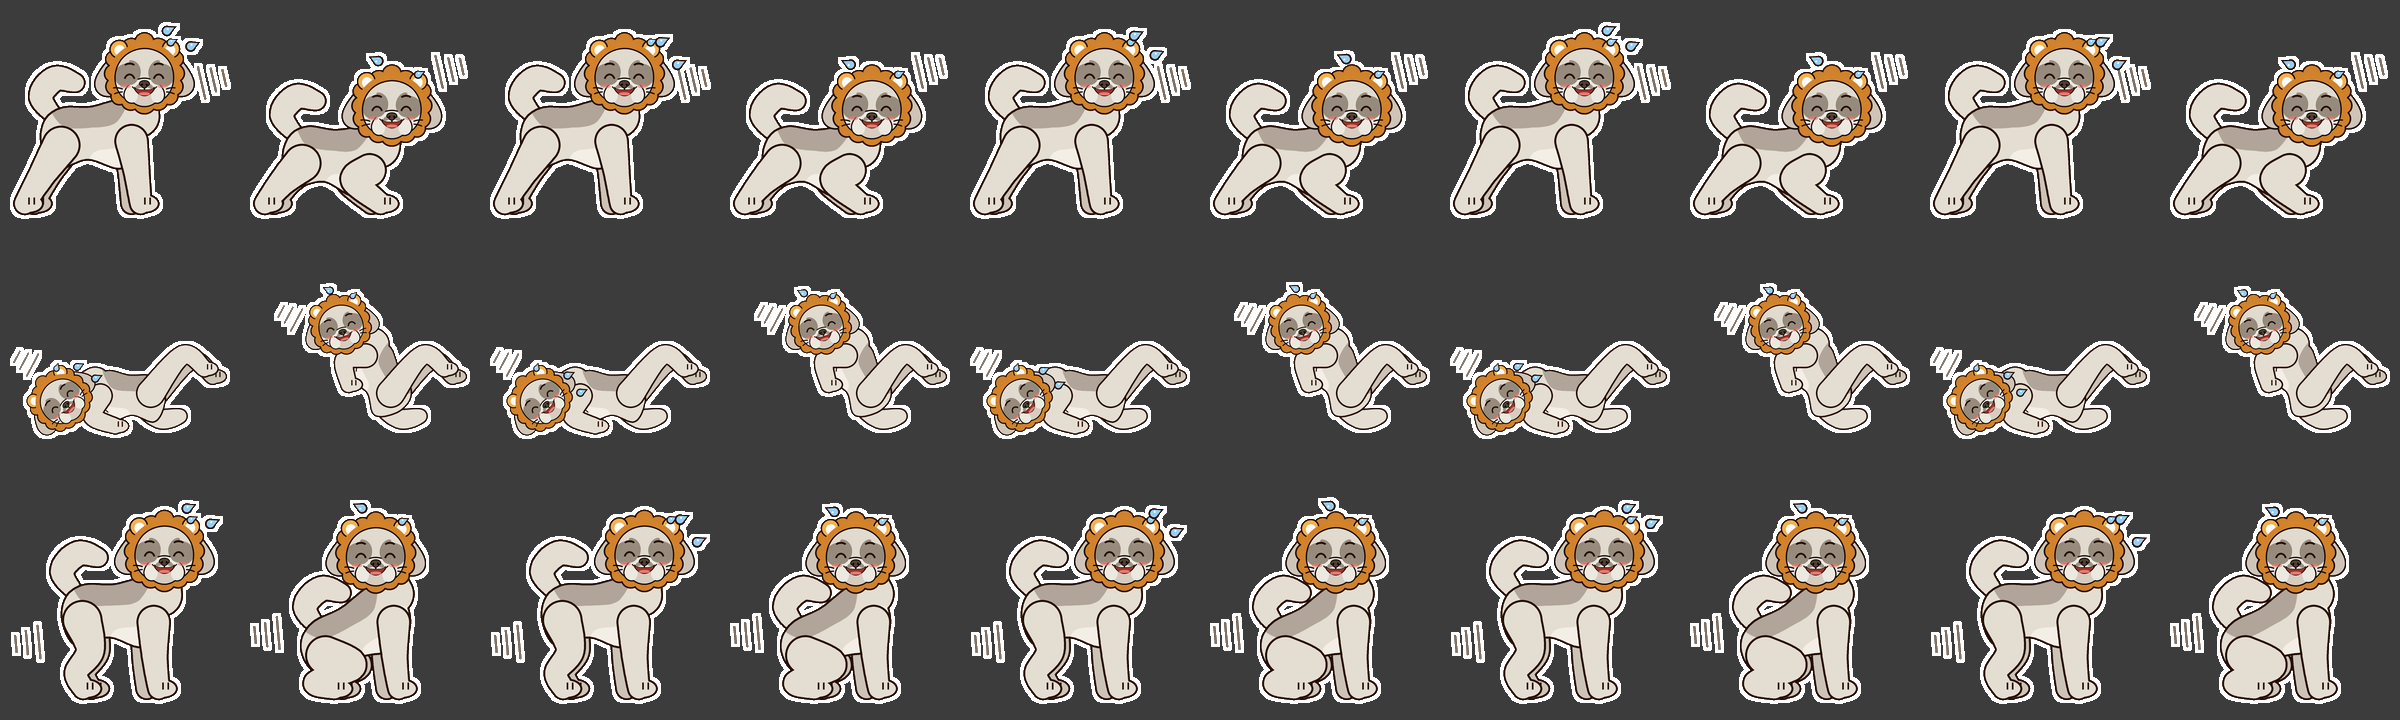
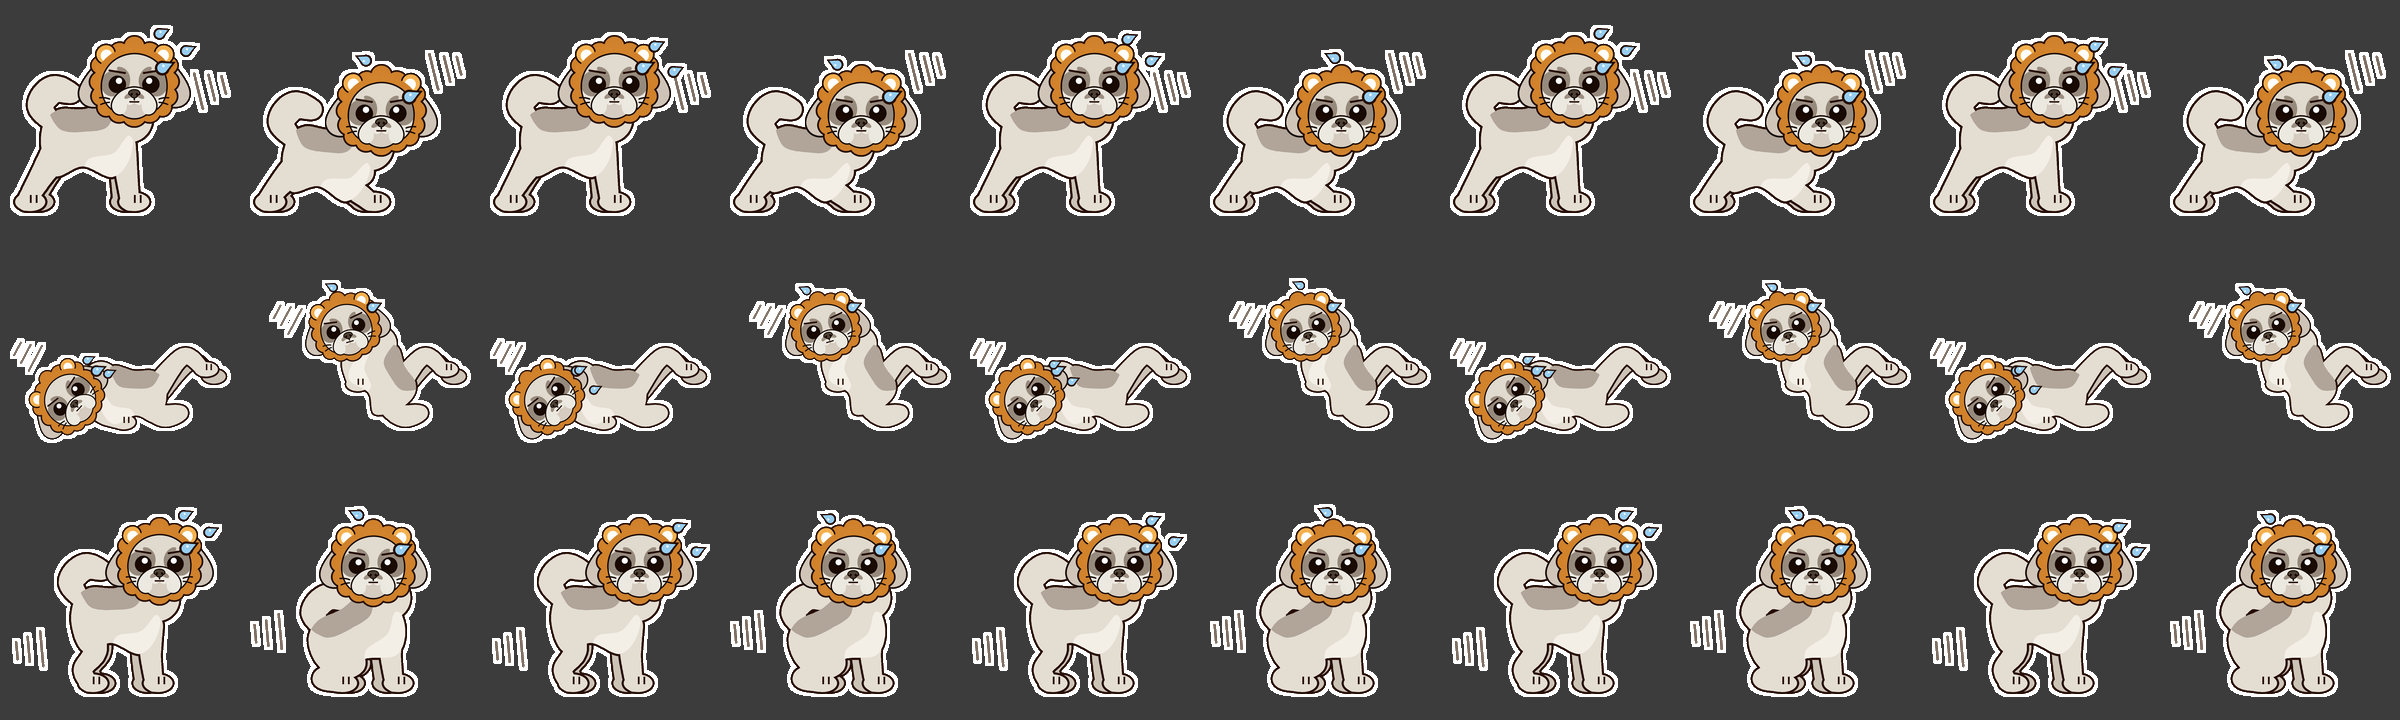
Refine 'kintore': straight face, shorter limbs, single unified outline
Claude-Session: https://claude.ai/code/session_01KX3WDfyPkAofSs6dqvGAmw

diff --git a/.claude/skills/stamp-create/SKILL.md b/.claude/skills/stamp-create/SKILL.md
@@ -114,10 +114,13 @@ print(ms.verify("assets/gif/名前.gif"))                     # 検証
   - 脚は**4本**。付け根が太く先が細い形（関節の点を通る線に沿って、太さを変えた丸を並べて作る）、先端に横長の丸い足と指の切れ目2本。**奥の脚は少し暗い色**（RGB 204,195,183）にして立体感を出す
   - しっぽは丸を重ねたふさふさの形で、背中側へくるんと巻く
   - 輪郭は形から一定距離の範囲を距離計算（`distance_transform_edt`）で求めて塗る（`MaxFilter` は大きな画像だと非常に遅い）
-  - 描く順番：奥の脚 → しっぽ → 胴体（＋模様・首）→ 手前の脚 → 頭
+  - **体は1つの形にまとめる**（ユーザーの好み。脚を1本ずつ別の輪郭で描くと、関節やつなぎ目に線が出てチープに見える）：手前の脚・胴体・首・しっぽを**1つの形（マスク）に合体**させてから、輪郭を1回だけ付けて塗る。奥の脚もまとめて1つの形にし、少し暗い色で後ろに描く。背中の模様と胸の明るい毛は胴体の部分だけに塗り、手前の脚には足先の指の切れ目だけ描く
+  - 描く順番：奥の脚（まとめて）→ 手前の体全部（胴体＋首＋しっぽ＋手前の脚を合体）→ 模様 → 指の切れ目 → 頭
+  - **手足と胴体は短め**：頭の大きさと胴体の太さはそのままに、横方向（胴体・手足の前後の長さ）と脚の高さを約8割に縮めると、ずんぐり可愛い
+  - **真顔**（「真顔で」と言われたら）：丸い目はそのまま、笑った口を消して一文字の口、眉は内側が少し下がるキリッとした太線。汗のしずくは残してよい
   - **可愛いバランス**（「気持ち悪い」と言われたら）：長く細い脚はやめ、丸くぽってりした胴体（太さ175）・短めで少し太い脚（太さ1.2倍。1.45倍だと体の形が埋もれる）・短い首で、頭（0.5倍）が体にちょこんと乗る約2.5頭身にする
   - **頭身**（ユーザーの指定があれば合わせる。例：三頭身）：頭のてっぺんから足先までの高さ ÷ 頭の高さ で計算して確かめる。三頭身なら、頭は元の顔の 0.44 倍、肩の高さは地面から約 560px、胸から頭へつながる首（幅 170px、胴体と同じ輪郭）を描き足して頭を体の上に乗せる。脚が長くなると細く頼りなく見えるので、太さを 1.15 倍にする（立った姿勢で 2.9 頭身）
-- **筋トレ（腕立て → 腹筋 → スクワット）（犬の体つき・すべて横から右向き）**：腕立て＝前足を伸ばした姿勢からひじを後ろへ曲げて胸を下ろす／腹筋＝お腹を見せて仰向け、後ろ足は空中でひざを曲げて持ち上げ、前足は胸の上で折りたたんで（頭の後ろに隠れる）上体を丸めて起こす（前足をひざへ伸ばすと脚が重なってごちゃつく）／スクワット＝4本足で立った姿勢から後ろ足を曲げて「おすわり」のように腰を落とす。1種類＝5コマ（250 → 250 → 踏ん張る450 → 250 → 300ms）＝1.5秒×3種類＝15コマ・4.5秒。踏ん張るコマは「^ ^」の目・少し開けた口・おでこの汗。切り抜きは種類ごとに `ms.auto_crop`
+- **筋トレ（腕立て → 腹筋 → スクワット）（犬の体つき・すべて横から右向き）**：腕立て＝前足を伸ばした姿勢からひじを後ろへ曲げて胸を下ろす／腹筋＝お腹を見せて仰向け、後ろ足は空中でひざを曲げて持ち上げ、前足は胸の上で折りたたんで（頭の後ろに隠れる）上体を丸めて起こす（前足をひざへ伸ばすと脚が重なってごちゃつく）／スクワット＝4本足で立った姿勢から後ろ足を曲げて「おすわり」のように腰を落とす。1種類＝5コマ（250 → 250 → 踏ん張る450 → 250 → 300ms）＝1.5秒×3種類＝15コマ・4.5秒。踏ん張るコマは「^ ^」の目・少し開けた口・おでこの汗（ユーザーが「真顔」と言えば真顔で通す）。切り抜きは種類ごとに `ms.auto_crop`
 - **すごく速く動く表現**（回数を増やして長さは変えないとき）：1回＝上・下の2コマ×150ms（1回0.3秒）。動きがいちばん大きい部分（頭か腰）の横に、**体と反対側（外側）だけ**スピード線を3本、動いてきた側へ伸ばして描く（体の上から見えるように、体の後に描く）。汗のしずくをコマごとに位置を変えて飛ばす。前の姿勢を薄い色で重ねる「残像」は、GIFでは半透明にできず白いもやもやの塊になるので使わない。例：筋トレ各5回×3種目＝30コマ・4.5秒
 - GIF は表示時間を 10ms 単位でしか記録できない（125ms は 120ms になる）。合計秒数をきっちり合わせたいときは、130ms と 120ms を交互に並べるなど、10ms 単位の値で組む
 - **跳ねる（画像1枚）**：`sy:0.92, sx:1.05`（しゃがむ）→ `dy:-20`（跳ぶ）→ `dy:-28` → `dy:-20` → 着地 `sy:0.94` → 元に戻る
